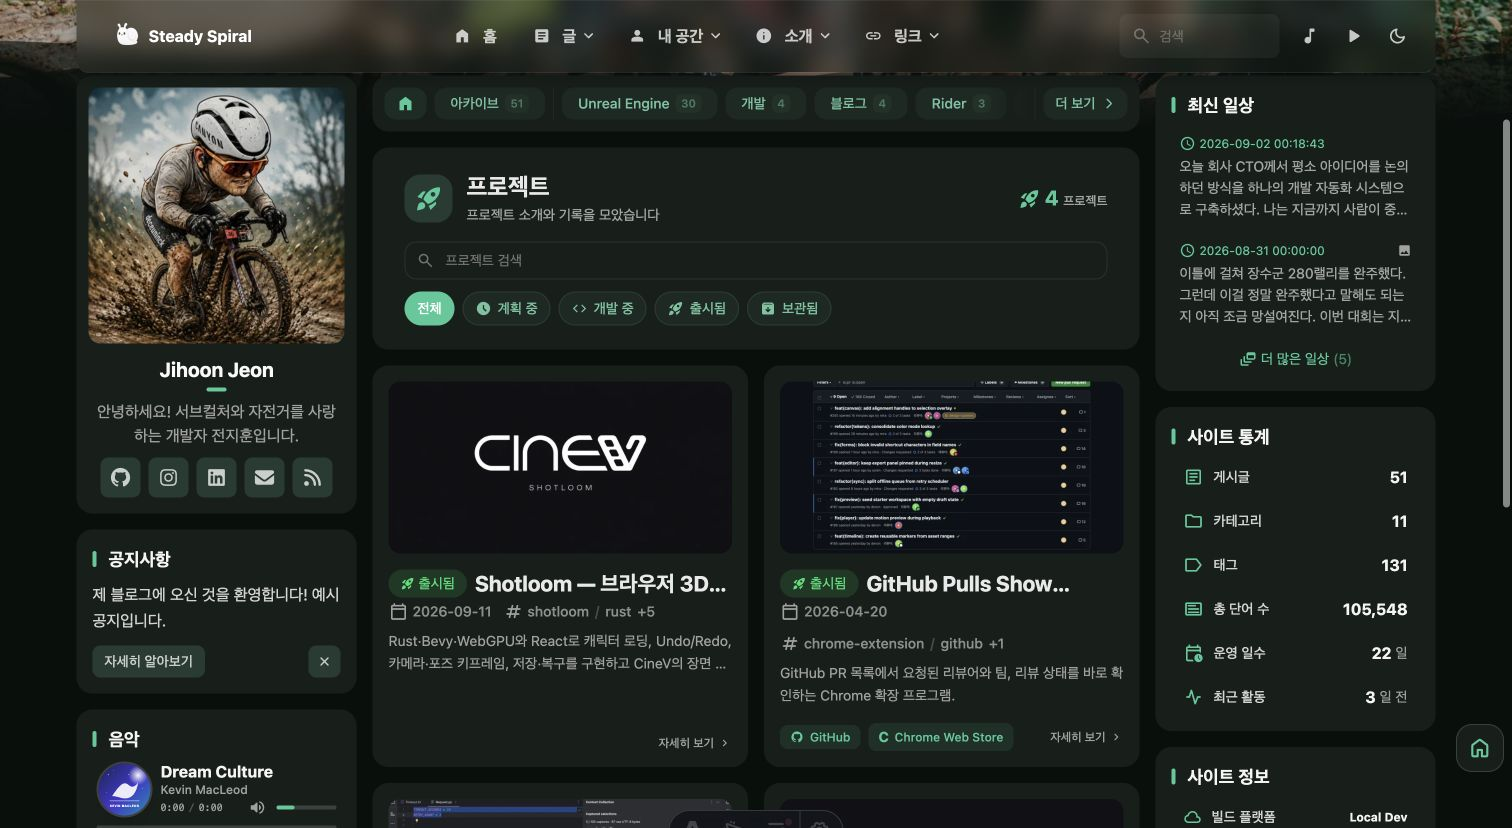
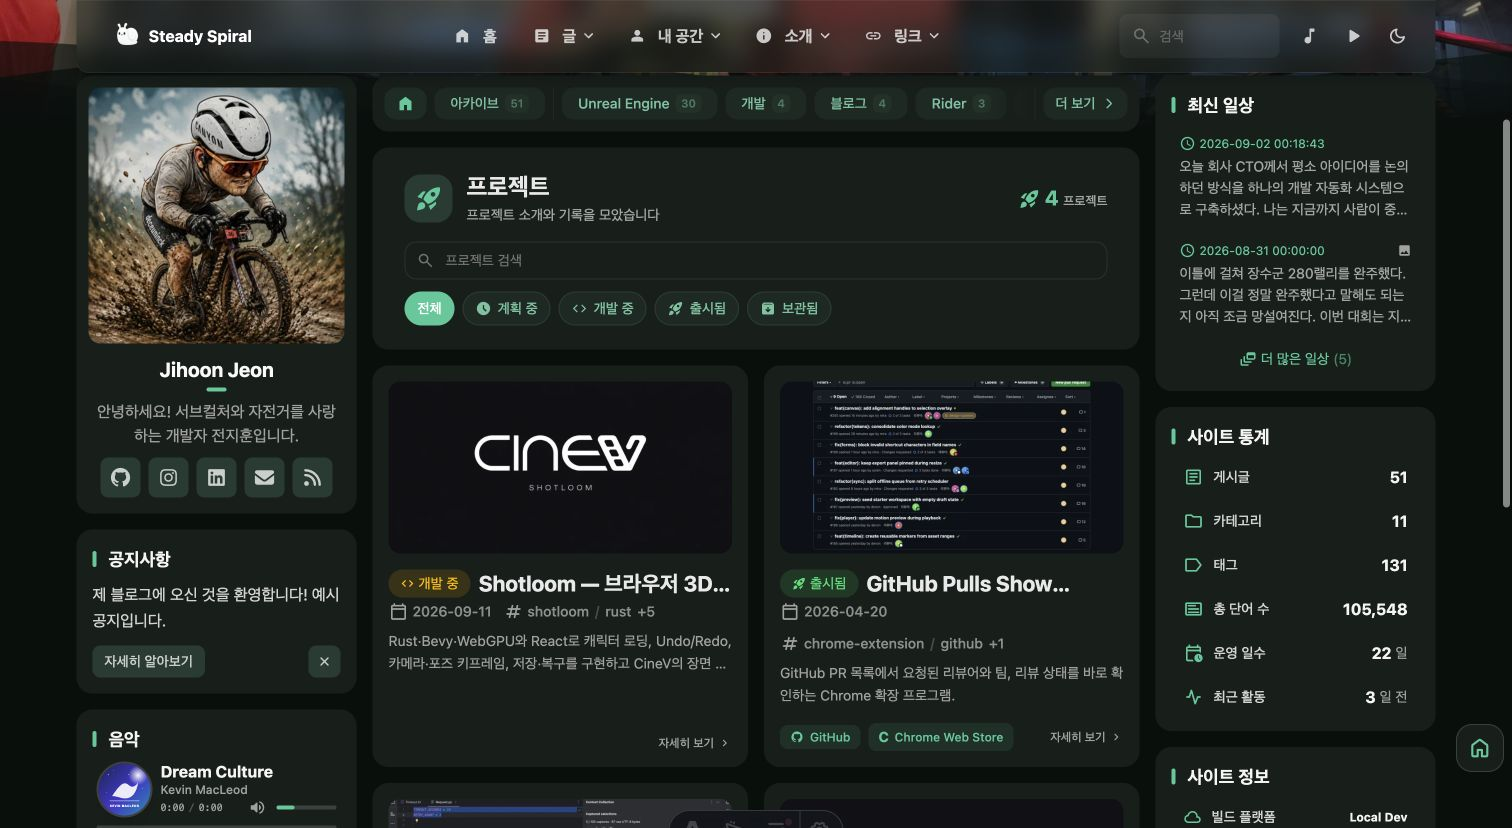
fix(projects): mark Shotloom as developing

diff --git a/src/content/projects/shotloom.md b/src/content/projects/shotloom.md
@@ -13,7 +13,7 @@ tags:
   - ai-agent
 lang: ko
 draft: false
-status: published
+status: developing
 order: 1
 ---
 
